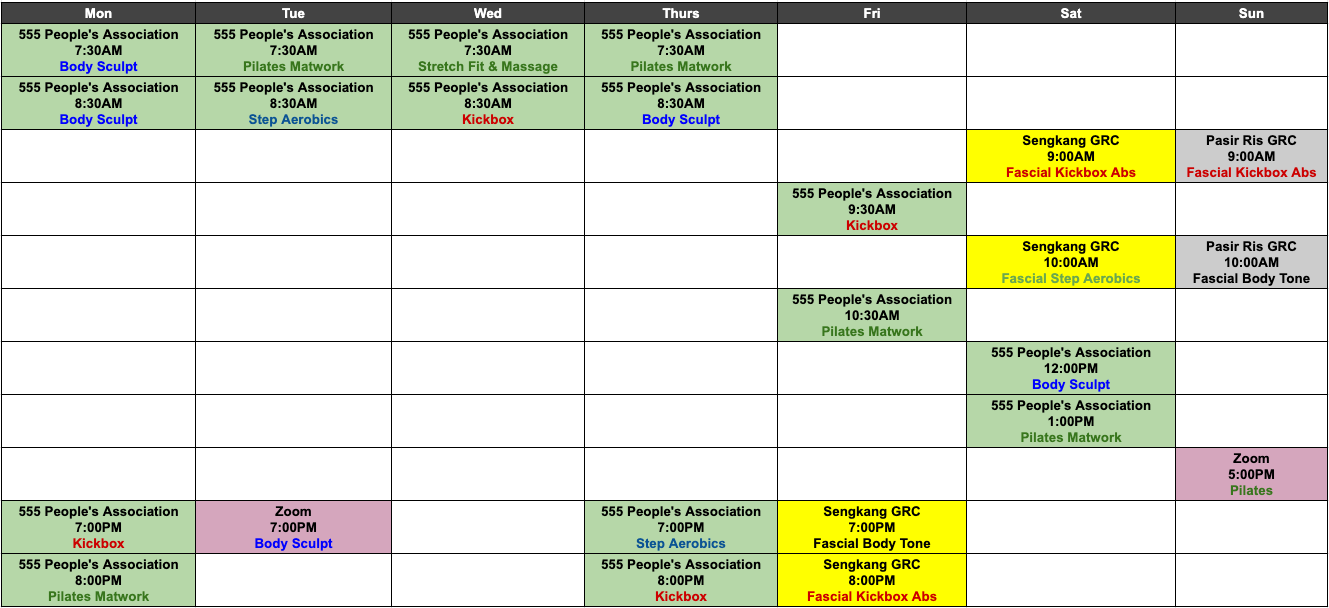
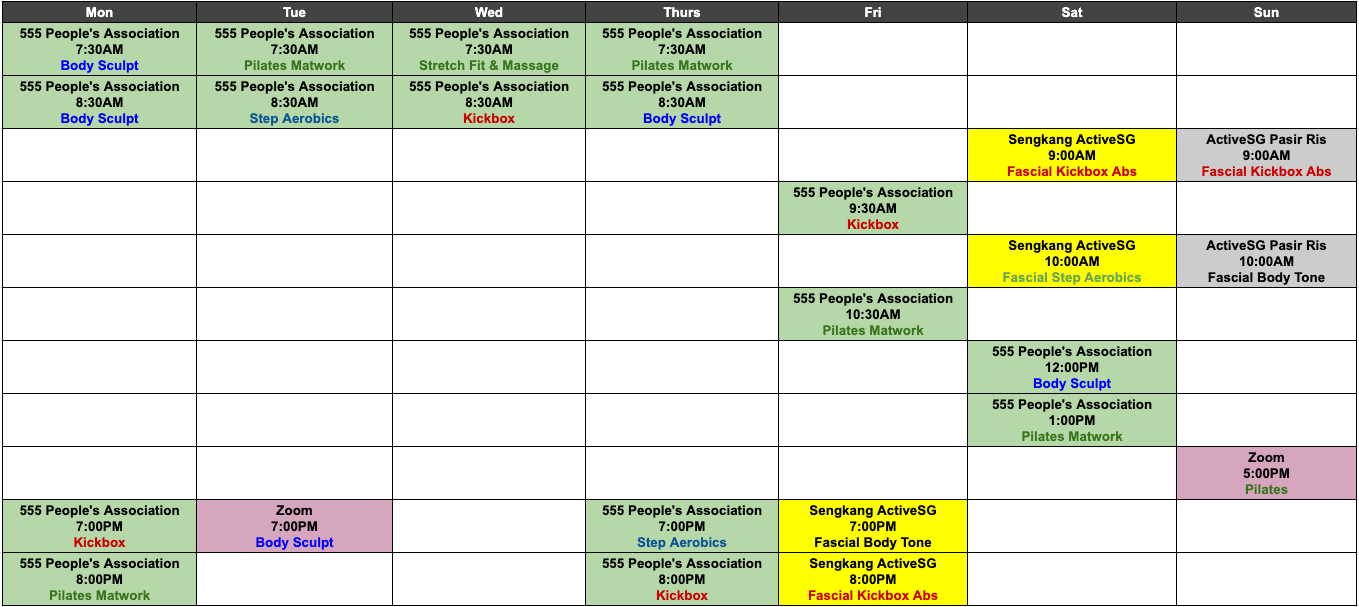
Finishing Touches and Made Changes based on first review

diff --git a/pages/classes.html b/pages/classes.html
@@ -24,7 +24,7 @@
 
     <div class="container-sub">
 
-      <p>Image provides an overview of the schedules. Links for booking are at the bottom of the page.</p>
+      <h2>Overall Schedule</h2>
 
       <div class="schedule-img-actions-container">
         <button onclick="openInNewTab('../images/schedule.png')">
@@ -37,37 +37,138 @@
       <div class="schedule-img-container">
         <img src="../images/schedule.png" />
       </div>
-      <span>you can scroll the image sideways</span>
+      <span>*you can scroll the image sideways</span>
 
 
       <div class="break"></div>
       <br />
 
-      <div> insert some address + ext google maps links or something here</div>
 
-      <div class="break"></div>
-      <br />
+      <h2>I currently teach at 4 locations.</h2>
 
-      <div class="book-links">
+      <h2>Check them out below and secure your slots early. See you there!</h2>
 
-        <h2>Click the following and book the slots there: </h2>
+      <div class="bookings-container">
 
-        <div class="cards-ext">
-
-          <div class="card bg-blur ex-classes"
-            onclick="openInNewTab('https://activesg.gov.sg/programmes?filters=%7B%22searchQuery%22%3A%22iris+sim%22%2C%22showAvailableOnlyFilter%22%3Atrue%2C%22activityIds%22%3A%5B%22CzaggQ47puw206WKFsMF6%22%2C%22tZ7LsOQ4VSODS3MonJlGG%22%2C%22io9U7SgkmzLowMNlUPSMe%22%5D%7D')">
-            <img class="card-img-cover" src="../images/activesglogo.png" />
+        <div class="booking-item-container bg-blur">
+          <div class="display-logo-container">
+            <img src="../images/activesglogo.png" class="img-cover" />
           </div>
-
-          <div class="card bg-blur ex-classes"
-            onclick="openInNewTab('https://www.onepa.gov.sg/courses/search?course=IRIS%20SIM%20GWEK%20KEOW&id=5b9686cc-036a-e811-8110-00155d005003&type=trainer')">
-            <img class="card-img-cover" src="../images/onepa.png" />
+          <h3>ActiveSG <b>Sengkang</b> Sports Centre</h3>
+          <div class="booking-cta-container">
+            <button onclick="openInNewTab('https://maps.app.goo.gl/5vvCxseqiCsFrZby5')" class="loc">
+              <img class="ext-open" src="../icons/location.svg" />
+              <span class="ext-open-label">
+                See Location
+              </span>
+            </button>
+            <button
+              onclick="openInNewTab('https://activesg.gov.sg/programmes?filters=%7B%22searchQuery%22%3A%22iris+sim%22%2C%22venueId%22%3A%22zihKuTAdOBnh86saCU50I%22%2C%22showAvailableOnlyFilter%22%3Afalse%2C%22activityIds%22%3A%5B%22CzaggQ47puw206WKFsMF6%22%2C%22tZ7LsOQ4VSODS3MonJlGG%22%2C%22io9U7SgkmzLowMNlUPSMe%22%5D%2C%22postalCode%22%3A%22544964%22%7D')"
+              class="makebook">
+              <img class="ext-open" src="../icons/ext-blue.svg" />
+              <span class="ext-open-label">
+                Book Slots
+              </span>
+            </button>
           </div>
+          <span>Class Timings:</span>
+          <ul>
+            <li>Fri 7.00pm - Fascial Body Tone</li>
+            <li>Fri 8.00pm - Fascial Kickbox Abs</li>
+            <li>Sat 9.00am - Fascial Kickbox Abs</li>
+            <li>Sat 10.00am - Fascial Step Aerobics</li>
+          </ul>
+        </div>
 
-          <div class="card bg-blur ex-classes" onclick="openInNewTab('https://forms.gle/LJZraBV8nrtv16iU7')">
-            <img class="card-img-cover" src="../images/zoom.jpg" />
+        <div class="booking-item-container bg-blur">
+          <div class="display-logo-container">
+            <img src="../images/activesglogo.png" class="img-cover" />
           </div>
+          <h3>ActiveSG <b>PasirRis</b> Sports Centre</h3>
+          <div class="booking-cta-container">
+            <button onclick="openInNewTab('https://maps.app.goo.gl/LnQdcQF1ccJjYviu5')" class="loc">
+              <img class="ext-open" src="../icons/location.svg" />
+              <span class="ext-open-label">
+                See Location
+              </span>
+            </button>
+            <button
+              onclick="openInNewTab('https://activesg.gov.sg/programmes?filters=%7B%22searchQuery%22%3A%22iris+sim%22%2C%22venueId%22%3A%22fFYEBJ0V2jaBt6Ft8wNQx%22%2C%22showAvailableOnlyFilter%22%3Afalse%2C%22activityIds%22%3A%5B%22CzaggQ47puw206WKFsMF6%22%2C%22tZ7LsOQ4VSODS3MonJlGG%22%2C%22io9U7SgkmzLowMNlUPSMe%22%5D%7D')"
+              class="makebook">
+              <img class="ext-open" src="../icons/ext-blue.svg" />
+              <span class="ext-open-label">
+                Book Slots
+              </span>
+            </button>
+          </div>
+          <span>Class Timings:</span>
+          <ul>
+            <li>Sun 9.00am - Fascial Kickbox Abs</li>
+            <li>Sun 10.00am - Fascial Body Tone</li>
+          </ul>
+        </div>
 
+        <div class="booking-item-container bg-blur">
+          <div class="display-logo-container">
+            <img src="../images/onepa.png" class="img-cover" />
+          </div>
+          <h3>555 People's Association <b>(PA)</b></h3>
+          <div class="booking-cta-container">
+            <button onclick="openInNewTab('https://maps.app.goo.gl/4Wk3NnNzETGyqkhw5')" class="loc">
+              <img class="ext-open" src="../icons/location.svg" />
+              <span class="ext-open-label">
+                See Location
+              </span>
+            </button>
+            <button
+              onclick="openInNewTab('https://www.onepa.gov.sg/courses/search?course=&outlet=Ang%20Mo%20Kio-Hougang%20Palmview%20RN&showAllResults=true')"
+              class="makebook">
+              <img class="ext-open" src="../icons/ext-blue.svg" />
+              <span class="ext-open-label">
+                Book Slots
+              </span>
+            </button>
+          </div>
+          <p><b>Location:</b> Block 555, Hougang Street 51 #01-322, Singapore 53055</p>
+          <span>Class Timings:</span>
+          <ul>
+            <li>Mon 7.30am - Body Sculpt</li>
+            <li>Mon 8.30am - Body Sculpt</li>
+            <li>Mon 7.00pm - Kickbox</li>
+            <li>Mon 8.00pm - Pilates Matwork</li>
+            <li>Tue 7.30am - Pilates Matwork</li>
+            <li>Tue 8.30am - Step Aerobics</li>
+            <li>Wed 7.30am - Stretch Fit & Massage</li>
+            <li>Wed 8.30am - Kickbox</li>
+            <li>Thu 7.30am - Pilates Matwork</li>
+            <li>Thu 8.30am - Body Sculpt</li>
+            <li>Thu 7.00pm - Step Aerobics</li>
+            <li>Thu 8.00pm - Kickbox</li>
+            <li>Fri 9.30am - Kickbox</li>
+            <li>Fri 10.30am - Pilates Matwork</li>
+            <li>Sat 12.00pm - Body Sculpt</li>
+            <li>Sat 1.00pm - Pilates Matwork</li>
+          </ul>
+        </div>
+
+        <div class="booking-item-container bg-blur">
+          <div class="display-logo-container">
+            <img src="../images/zoom.jpg" class="img-cover" />
+          </div>
+          <h3><b>Zoom</b></h3>
+          <div class="booking-cta-container">
+            <button onclick="openInNewTab('https://forms.gle/LJZraBV8nrtv16iU7')" class="makebook">
+              <img class="ext-open" src="../icons/ext-blue.svg" />
+              <span class="ext-open-label">
+                Book Slots
+              </span>
+            </button>
+          </div>
+          <span>Class Timings:</span>
+          <ul>
+            <li>Tue 7.00pm - Body Sculpt</li>
+            <li>Sun 5.00pm - Pilates</li>
+          </ul>
         </div>
 
       </div>

diff --git a/style.css b/style.css
@@ -157,6 +157,96 @@ b {
   margin-top: 32px;
 }
 
+.bookings-container {
+  display: flex;
+  flex-direction: column;
+  gap: 20px;
+  margin-top: 24px;
+}
+
+.booking-item-container {
+  height: fit-content;
+  /* width: 100%; */
+  padding: 8px;
+  border-radius: 10px;
+  border: 2px solid #F19399;
+  display: flex;
+  flex-direction: column;
+}
+
+.booking-item-container>h3 {
+  font-size: 24px;
+  margin-top: 10px;
+}
+
+/* .display-logo { */
+/*   width: 70%; */
+/* } */
+
+.display-logo-container {
+  width: 100%;
+  height: 70px;
+  background-color: white;
+  display: flex;
+  justify-content: center;
+  border-radius: 10px;
+}
+
+.img-cover {
+  height: 100%;
+  object-fit: cover;
+}
+
+.booking-cta-container {
+  display: flex;
+  flex-direction: row;
+  gap: 8px;
+  margin-bottom: 12px;
+  justify-content: space-between;
+}
+
+.booking-cta-container>button {
+  flex: 1;
+}
+
+.booking-cta-container>.loc {
+  border: 2px solid #9FE0A9;
+  color: #9FE0A9;
+  font-size: 14px;
+}
+
+.booking-cta-container>.loc>.ext-open-label {
+  color: #9FE0A9;
+}
+
+.booking-cta-container>.makebook {
+  border: 2px solid #63C5E3;
+  color: #63C5E3;
+  font-size: 14px;
+}
+
+.booking-cta-container>.makebook>.ext-open-label {
+  color: #63C5E3;
+}
+
+.booking-cta-container>button>img {
+  height: 20px;
+  width: 20px;
+}
+
+.booking-item-container>ul {
+  list-style-type: none;
+  padding-left: 8px;
+  margin-top: 8px;
+}
+
+.card,
+.booking-item-container {
+  -webkit-box-shadow: 8px 7px 7px 0px rgba(241, 147, 153, 1);
+  -moz-box-shadow: 8px 7px 7px 0px rgba(241, 147, 153, 1);
+  box-shadow: 8px 7px 7px 0px rgba(241, 147, 153, 1);
+}
+
 .cards-ext {
   display: flex;
   flex-wrap: wrap;
@@ -179,10 +269,6 @@ b {
   gap: 24px;
   border-radius: 10px;
   border: 1px solid #F19399;
-
-  -webkit-box-shadow: 8px 7px 7px 0px rgba(241, 147, 153, 1);
-  -moz-box-shadow: 8px 7px 7px 0px rgba(241, 147, 153, 1);
-  box-shadow: 8px 7px 7px 0px rgba(241, 147, 153, 1);
 }
 
 .card-icons {
@@ -226,6 +312,10 @@ b {
 .ex-classes {
   padding: 4px;
   background: white;
+}
+
+.qr-code {
+  width: 100%;
 }
 
 @media (max-width: 830px) {

diff --git a/pages/services.html b/pages/services.html
@@ -21,10 +21,16 @@
     </div>
 
     <div class="container-sub">
+      <h2>Classes</h2>
+      <p>I teach classes everyday. Check them out <a href="certifications.html">here!</a></p>
 
-      <p>class schedules here</p>
-      <p>Personal Training Services</p>
-
+      <h2>Personal Training</h2>
+      <p>Everyone's needs are different and having 1:1 focus sessions will help with that.</p>
+      <p>
+        My rates are: <b>$120-$180</b> per hour.
+      </p>
+      <p>If you are interested, you can contact me <a href="contact.html">here!</a>
+      </p>
     </div>
 
   </main>

diff --git a/pages/contact.html b/pages/contact.html
@@ -22,9 +22,16 @@
 
     <div class="container-sub">
 
-      <p>Email: <a href="mailto:wong_wong123@hotmail.com">wong_wong123@hotmail.com</a> </p>
+      <p>Email: <a href="mailto:irissimfitness@outlook.sg">irissimfitness@outlook.sg</a> </p>
 
       <p>Phone: +65 96459092</p>
+
+      <div>
+        <p>Share my site through the QR Code!</p>
+        <img src="../images/qr-code.png" class="qr-code" />
+      </div>
+
+
     </div>
   </main>
 
